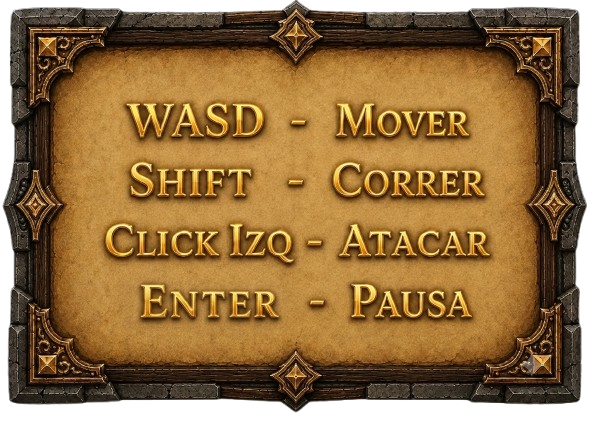
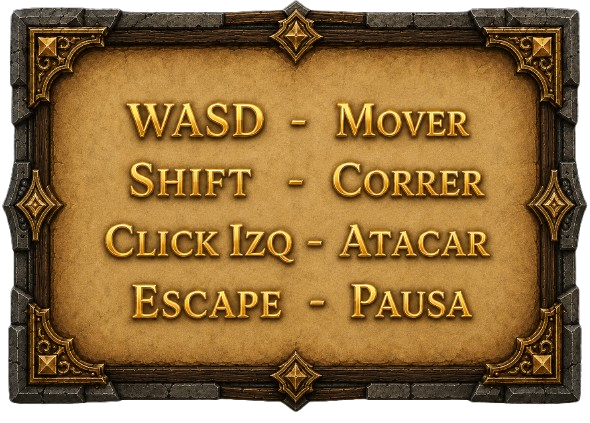
Cambio de botones salto de animacion, pause e instrucciones

diff --git a/Assets/Project/Script/Cinematics/CinematicIntroController.cs b/Assets/Project/Script/Cinematics/CinematicIntroController.cs
@@ -60,7 +60,7 @@ public sealed class CinematicIntroController : MonoBehaviour
     [SerializeField] private bool allowSkip = true;
     [SerializeField] private bool moveDogToStartOnIntro = true;
     [SerializeField] private float skipInputDelay = 0.35f;
-    [SerializeField] private KeyCode legacySkipKey = KeyCode.Escape;
+    [SerializeField] private KeyCode legacySkipKey = KeyCode.Return;
     [SerializeField] private int inactivePriority = 0;
     [SerializeField] private int activePriority = 20;
 
@@ -663,14 +663,14 @@ public sealed class CinematicIntroController : MonoBehaviour
 
 #if ENABLE_INPUT_SYSTEM
         Keyboard keyboard = Keyboard.current;
-        if (keyboard != null && (keyboard.escapeKey.wasPressedThisFrame || keyboard.spaceKey.wasPressedThisFrame))
+        if (keyboard != null && (keyboard.enterKey.wasPressedThisFrame || keyboard.numpadEnterKey.wasPressedThisFrame))
         {
             return true;
         }
 #endif
 
 #if ENABLE_LEGACY_INPUT_MANAGER
-        return Input.GetKeyDown(legacySkipKey) || Input.GetKeyDown(KeyCode.Space);
+        return Input.GetKeyDown(KeyCode.Return) || Input.GetKeyDown(KeyCode.KeypadEnter);
 #else
         return false;
 #endif

diff --git a/Assets/Project/Script/Frontend/PauseMenu.cs b/Assets/Project/Script/Frontend/PauseMenu.cs
@@ -46,7 +46,7 @@ public class PauseMenu : MonoBehaviour
 
     void Update()
     {
-        if (Keyboard.current != null && Keyboard.current.enterKey.wasPressedThisFrame)
+        if (Keyboard.current != null && Keyboard.current.escapeKey.wasPressedThisFrame)
         {
             if (juegoPausado)
                 ContinuarJuego();